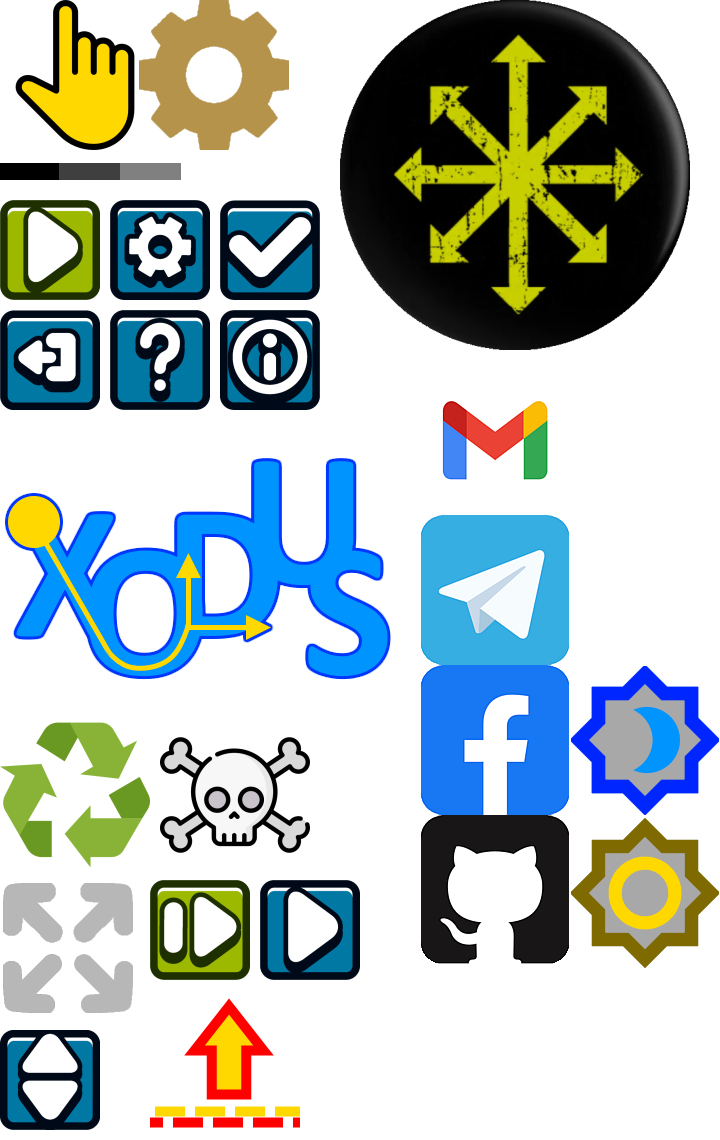
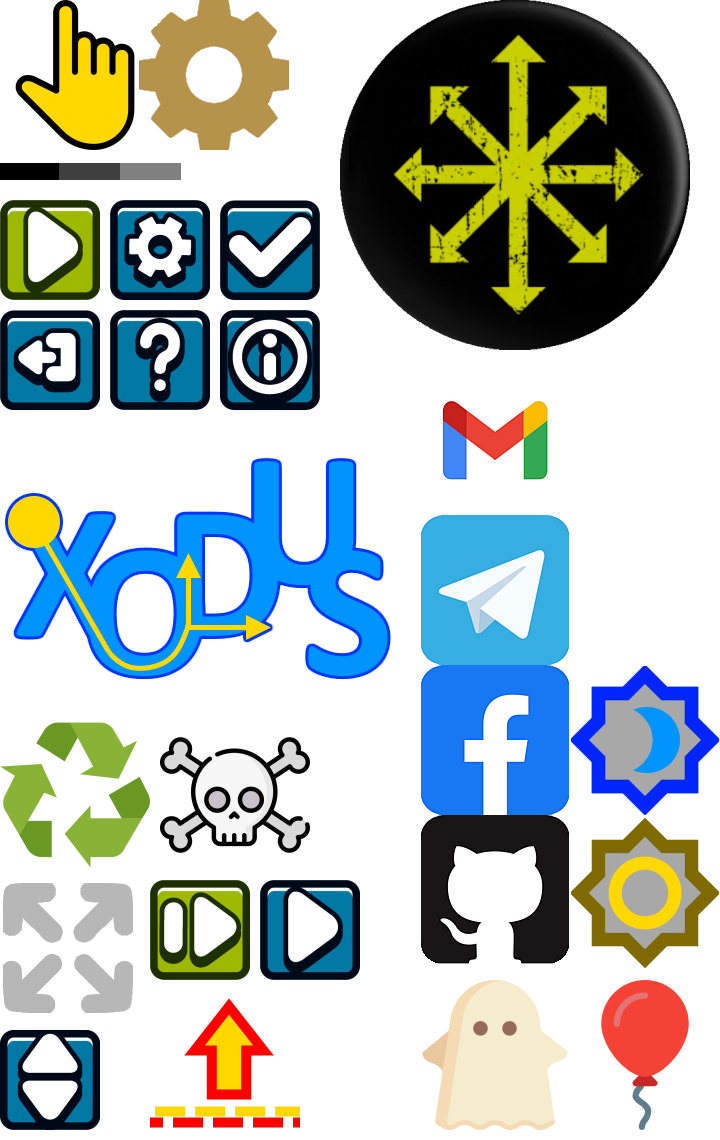
Added end-of-game animation

Changed region(s): [[0.5806, 0.8596, 0.7944, 1.0], [0.825, 0.8596, 0.9778, 1.0]]

diff --git a/core/src/com/andrzejn/xodus/GameScreen.kt b/core/src/com/andrzejn/xodus/GameScreen.kt
@@ -21,6 +21,7 @@ import com.badlogic.gdx.math.Vector2
 import com.badlogic.gdx.utils.StringBuilder
 import ktx.app.KtxScreen
 import ktx.app.clearScreen
+import kotlin.random.Random
 import java.util.*
 import kotlin.math.min
 
@@ -46,7 +47,7 @@ class GameScreen(
     /**
      * Set to true on first show call. Used by the Home/Settings screen to determone what to do on the Back button
      */
-    var wasDisplayed = false
+    var wasDisplayed: Boolean = false
 
     /**
      * In-game time tracker.
@@ -110,6 +111,14 @@ class GameScreen(
     private val exit = Sprite(ctx.a.exit).apply { setAlpha(0.8f) }
     private val hand = Sprite(ctx.a.hand).apply { setAlpha(0.7f) }
     private val updown = Sprite(ctx.a.updown).apply { setAlpha(0.8f) }
+    private val ghost = Sprite(ctx.a.ghost).apply {
+        setAlpha(0.7f)
+        setPosition(-1000f, -1000f)
+    }
+    private val balloon = Sprite(ctx.a.balloon).apply {
+        setAlpha(0.7f)
+        setPosition(-1000f, -1000f)
+    }
 
     private var inAutoMove = false
 
@@ -316,6 +325,10 @@ class GameScreen(
         ctx.score.draw(ctx.batch)
         if (inAutoMove)
             hand.draw(ctx.batch)
+        if (drawGhost) {
+            ghost.draw(ctx.batch)
+            balloon.draw(ctx.batch)
+        }
     }
 
     /**
@@ -429,8 +442,18 @@ class GameScreen(
      * Find a position for the Chaos move, create and put the tile there.
      */
     private fun chaosMove(move: Int) {
-        if (field.noMoreBalls())
+        if (field.noMoreBalls()) {
+            drawGhost = true
+            val sprite = (if (Random.nextFloat() < 0.5f) ghost else balloon).apply {
+                setSize(ctx.cp.sideLen * 2, ctx.cp.sideLen * 2)
+                setOriginCenter()
+                setPosition((graphics.width - width) / 2f, 0f)
+            }
+            Tween.to(sprite, TW_POS_XY, 3f).target((graphics.width - sprite.width) / 2f, graphics.height.toFloat())
+                .setCallback { _, _ -> drawGhost = false }
+                .start(ctx.tweenManager)
             return
+        }
         if (move <= 0) {
             createNewTile()
             ctx.sav.saveGame(this)
@@ -455,6 +478,8 @@ class GameScreen(
     }
 
     private val scrollUp = Coord(0, -1)
+
+    private var drawGhost = false
 
     /**
      * End of player's turn. Do Shredder and Chaos moves.

diff --git a/core/src/com/andrzejn/xodus/logic/Field.kt b/core/src/com/andrzejn/xodus/logic/Field.kt
@@ -41,7 +41,7 @@ class Field(
     /**
      * List of selectors that the player can (and should) select.
      */
-    val openSelector = mutableListOf<MoveIntent>()
+    val openSelector: MutableList<MoveIntent> = mutableListOf()
 
     /**
      * The list of selector colors already clicked on this move.
@@ -312,7 +312,9 @@ class Field(
         ctx.score.addPoints(collisions.distinct().size)
         deadBall.addAll(collisions)
         ball.removeAll(collisions)
-        collisions.distinct().forEach { blot.add(Blot(ctx, it.color, it.tile, it.currentPosition)) }
+        collisions.distinct().forEach {
+            blot.add(Blot(ctx, it.color, it.tile, it.currentPosition))
+        }
     }
 
     /**

diff --git a/core/src/com/andrzejn/xodus/helper/Atlas.kt b/core/src/com/andrzejn/xodus/helper/Atlas.kt
@@ -38,6 +38,8 @@ open class Atlas {
     val death: TextureRegion get() = texture("death")
     val shredder: TextureRegion get() = texture("shredder")
     val updown: TextureRegion get() = texture("updown")
+    val ghost: TextureRegion get() = texture("ghost")
+    val balloon: TextureRegion get() = texture("balloon")
 
     /**
      * Light (bright) colors palette for the tile lines
